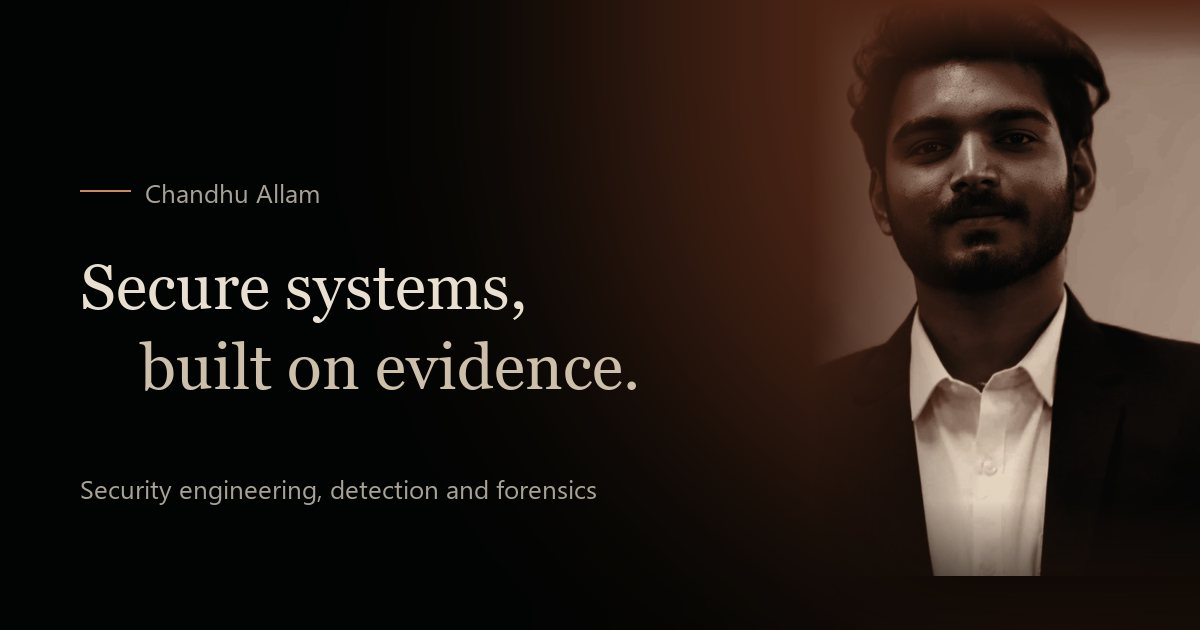
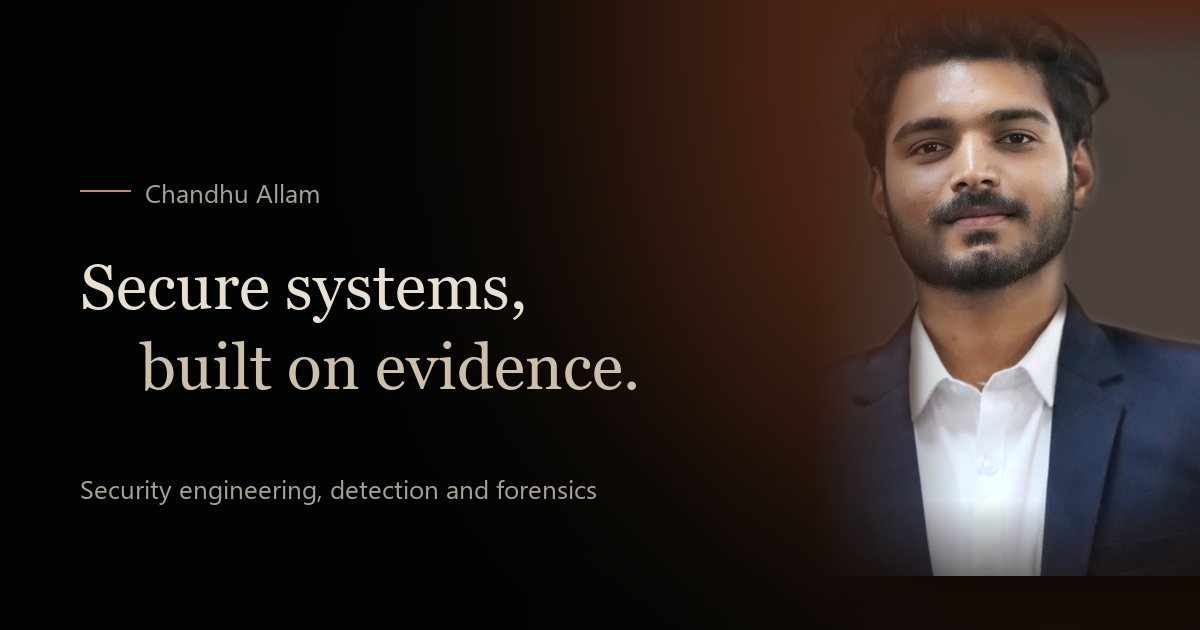
Refine contact, availability, experience and portrait grade
- Use chandhu.a@outlook.com for every contact link, the footer and the
  structured data.
- State co-op availability as 12 months, January 2027 to January 2028.
- Remove dates from the Experience section on the homepage and résumé.
- Regrade the portrait from the original photo with natural skin tone;
  only the background wall is darkened and warmed to match the hero
  lighting. Regenerate the social image from the new grade.

Changed region(s): [[0.7092, 0.0302, 1.0, 0.9349]]

diff --git a/resume.html b/resume.html
@@ -39,7 +39,7 @@
             <h1>Chandhu Allam</h1>
             <ul class="resume__contact">
               <li>Victoria, BC, Canada</li>
-              <li><a href="mailto:chandhunani252@gmail.com">chandhunani252@gmail.com</a></li>
+              <li><a href="mailto:chandhu.a@outlook.com">chandhu.a@outlook.com</a></li>
               <li><a href="https://github.com/Chandhu03">github.com/Chandhu03</a></li>
               <li><a href="https://www.linkedin.com/in/chandhuallam422">linkedin.com/in/chandhuallam422</a></li>
               <li><a href="https://chandhu03.github.io/Portfolio---Chandhu-Allam/">chandhu03.github.io/Portfolio---Chandhu-Allam</a></li>
@@ -48,7 +48,7 @@
           <button class="btn btn--solid no-print" type="button" data-print>Save as PDF</button>
         </div>
 
-        <p>MEng student in Telecommunications and Information Security, available for a co-op from January to April 2027. Hands-on experience building detection and investigation tooling, investigating malware in memory, disk and network evidence, evaluating machine-learning detectors honestly, and teaching threat modelling to undergraduates.</p>
+        <p>MEng student in Telecommunications and Information Security, available for a 12-month cybersecurity co-op from January 2027 to January 2028. Hands-on experience building detection and investigation tooling, investigating malware in memory, disk and network evidence, evaluating machine-learning detectors honestly, and teaching threat modelling to undergraduates.</p>
 
         <h2>Education</h2>
         <div class="r-item">
@@ -103,7 +103,7 @@
 
         <h2>Experience</h2>
         <div class="r-item">
-          <header><h3>Teaching Assistant, SENG 360 Security Engineering</h3><span class="when">Sep 2026 – present</span></header>
+          <header><h3>Teaching Assistant, SENG 360 Security Engineering</h3></header>
           <p class="org">University of Victoria</p>
           <ul>
             <li>Support labs on threat modelling (data-flow diagrams, STRIDE), risk identification, risk registers and security controls.</li>
@@ -111,14 +111,14 @@
           </ul>
         </div>
         <div class="r-item">
-          <header><h3>Laboratory Teaching Assistant, ECE 300, ECE 216 and ECE 250</h3><span class="when">Jan 2026 – present</span></header>
+          <header><h3>Laboratory Teaching Assistant, ECE 300, ECE 216 and ECE 250</h3></header>
           <p class="org">University of Victoria</p>
           <ul>
             <li>Lead circuits and electromagnetics labs and grade reports; recognized by the ECE 300 lead instructor for grading accuracy and student engagement.</li>
           </ul>
         </div>
         <div class="r-item">
-          <header><h3>Cybersecurity Intern</h3><span class="when">May – Jun 2022</span></header>
+          <header><h3>Cybersecurity Intern</h3></header>
           <p class="org">Verzeo, remote</p>
           <ul><li>Ran phishing-simulation and vulnerability-assessment exercises and documented findings in structured reports.</li></ul>
         </div>
@@ -143,6 +143,7 @@
         <a href="./#work">Work</a>
         <a href="https://github.com/Chandhu03" rel="noopener">GitHub</a>
         <a href="https://www.linkedin.com/in/chandhuallam422" rel="noopener">LinkedIn</a>
+        <a href="mailto:chandhu.a@outlook.com">Email</a>
       </nav>
     </div>
   </footer>

diff --git a/index.html b/index.html
@@ -27,6 +27,7 @@
     "@type": "Person",
     "name": "Chandhu Allam",
     "url": "https://chandhu03.github.io/Portfolio---Chandhu-Allam/",
+    "email": "mailto:chandhu.a@outlook.com",
     "jobTitle": "MEng student, Telecommunications and Information Security",
     "alumniOf": [
       {"@type": "CollegeOrUniversity", "name": "University of Victoria"},
@@ -78,7 +79,7 @@
         <dl class="hero__facts">
           <div><dt>Focus</dt><dd>Security operations, detection engineering, machine learning for security</dd></div>
           <div><dt>Studying</dt><dd>MEng, Telecommunications and Information Security, University of Victoria</dd></div>
-          <div><dt>Available</dt><dd>Co-op, January to April 2027, in Canada</dd></div>
+          <div><dt>Available</dt><dd>12-month co-op, January 2027 to January 2028</dd></div>
         </dl>
       </div>
     </section>
@@ -169,7 +170,6 @@
         <div>
           <ol class="entries">
             <li class="entry">
-              <span class="when">Sep 2026 – present</span>
               <div>
                 <h3>Teaching Assistant, SENG 360 Security Engineering</h3>
                 <p class="org">University of Victoria</p>
@@ -180,7 +180,6 @@
               </div>
             </li>
             <li class="entry">
-              <span class="when">Jan 2026 – present</span>
               <div>
                 <h3>Laboratory Teaching Assistant, ECE 300, ECE 216 and ECE 250</h3>
                 <p class="org">University of Victoria</p>
@@ -191,7 +190,6 @@
               </div>
             </li>
             <li class="entry">
-              <span class="when">May – Jun 2022</span>
               <div>
                 <h3>Cybersecurity Intern</h3>
                 <p class="org">Verzeo, remote</p>
@@ -280,8 +278,8 @@
     <section class="contact" id="contact" aria-labelledby="contact-title">
       <div class="wrap">
         <h2 id="contact-title">Let’s talk about security work.</h2>
-        <p>I’m looking for a cybersecurity co-op from January to April 2027, and I’m interested in SOC analyst, security engineering and detection roles in Canada. Email is the fastest way to reach me.</p>
-        <p><a class="contact-mail" href="mailto:chandhunani252@gmail.com">chandhunani252@gmail.com</a></p>
+        <p>I’m available for a 12-month cybersecurity co-op from January 2027 to January 2028, and I’m interested in SOC analyst, security engineering and detection roles in Canada. Email is the fastest way to reach me.</p>
+        <p><a class="contact-mail" href="mailto:chandhu.a@outlook.com">chandhu.a@outlook.com</a></p>
         <ul class="contact-links">
           <li><a class="btn" href="https://github.com/Chandhu03" rel="noopener">GitHub</a></li>
           <li><a class="btn" href="https://www.linkedin.com/in/chandhuallam422" rel="noopener">LinkedIn</a></li>
@@ -299,6 +297,7 @@
         <a href="resume.html">Résumé</a>
         <a href="https://github.com/Chandhu03" rel="noopener">GitHub</a>
         <a href="https://www.linkedin.com/in/chandhuallam422" rel="noopener">LinkedIn</a>
+        <a href="mailto:chandhu.a@outlook.com">Email</a>
       </nav>
     </div>
   </footer>

diff --git a/assets/css/site.css b/assets/css/site.css
@@ -349,16 +349,14 @@ ul, ol { margin: 0; padding: 0; }
 @media (max-width: 860px) { .split { grid-template-columns: 1fr; } .split__aside { position: static; } }
 
 .entries { list-style: none; }
-.entry { padding: 2rem 0; border-top: 1px solid var(--line); display: grid; grid-template-columns: 9.5rem minmax(0, 1fr); gap: 0.5rem 2rem; }
+.entry { padding: 2rem 0; border-top: 1px solid var(--line); }
 .entry:last-child { border-bottom: 1px solid var(--line); }
-.entry time, .entry .when { font-size: 0.875rem; color: var(--smoke); padding-top: 0.35rem; }
 .entry h3 { font-family: var(--serif); font-size: 1.75rem; font-weight: 500; line-height: 1.15; margin-bottom: 0.2rem; }
 .entry .org { color: var(--ember); font-size: 0.9375rem; margin-bottom: 0.85rem; }
 .entry p, .entry li { color: var(--ash); font-size: 0.9875rem; }
 .entry ul { padding-left: 1.1rem; }
 .entry li { margin-bottom: 0.35rem; }
 .entry li::marker { color: var(--umber); }
-@media (max-width: 560px) { .entry { grid-template-columns: 1fr; } }
 
 .edu { display: grid; grid-template-columns: repeat(2, minmax(0, 1fr)); gap: 1.5rem; margin-top: 3.5rem; }
 .edu article { padding: 1.75rem; border: 1px solid var(--line); border-radius: var(--radius); background: rgba(2, 4, 3, 0.35); }

diff --git a/work/phishguard.html b/work/phishguard.html
@@ -181,6 +181,7 @@ gitleaks git --no-banner --redact .</pre>
         <a href="../resume.html">Résumé</a>
         <a href="https://github.com/Chandhu03" rel="noopener">GitHub</a>
         <a href="https://www.linkedin.com/in/chandhuallam422" rel="noopener">LinkedIn</a>
+        <a href="mailto:chandhu.a@outlook.com">Email</a>
       </nav>
     </div>
   </footer>

diff --git a/work/forensics.html b/work/forensics.html
@@ -148,6 +148,7 @@
         <a href="../resume.html">Résumé</a>
         <a href="https://github.com/Chandhu03" rel="noopener">GitHub</a>
         <a href="https://www.linkedin.com/in/chandhuallam422" rel="noopener">LinkedIn</a>
+        <a href="mailto:chandhu.a@outlook.com">Email</a>
       </nav>
     </div>
   </footer>

diff --git a/work/iot-sentinel.html b/work/iot-sentinel.html
@@ -177,6 +177,7 @@
         <a href="../resume.html">Résumé</a>
         <a href="https://github.com/Chandhu03" rel="noopener">GitHub</a>
         <a href="https://www.linkedin.com/in/chandhuallam422" rel="noopener">LinkedIn</a>
+        <a href="mailto:chandhu.a@outlook.com">Email</a>
       </nav>
     </div>
   </footer>

diff --git a/work/securemind.html b/work/securemind.html
@@ -264,6 +264,7 @@
         <a href="../resume.html">Résumé</a>
         <a href="https://github.com/Chandhu03" rel="noopener">GitHub</a>
         <a href="https://www.linkedin.com/in/chandhuallam422" rel="noopener">LinkedIn</a>
+        <a href="mailto:chandhu.a@outlook.com">Email</a>
       </nav>
     </div>
   </footer>

diff --git a/work/securetext.html b/work/securetext.html
@@ -100,6 +100,7 @@
         <a href="../resume.html">Résumé</a>
         <a href="https://github.com/Chandhu03" rel="noopener">GitHub</a>
         <a href="https://www.linkedin.com/in/chandhuallam422" rel="noopener">LinkedIn</a>
+        <a href="mailto:chandhu.a@outlook.com">Email</a>
       </nav>
     </div>
   </footer>
